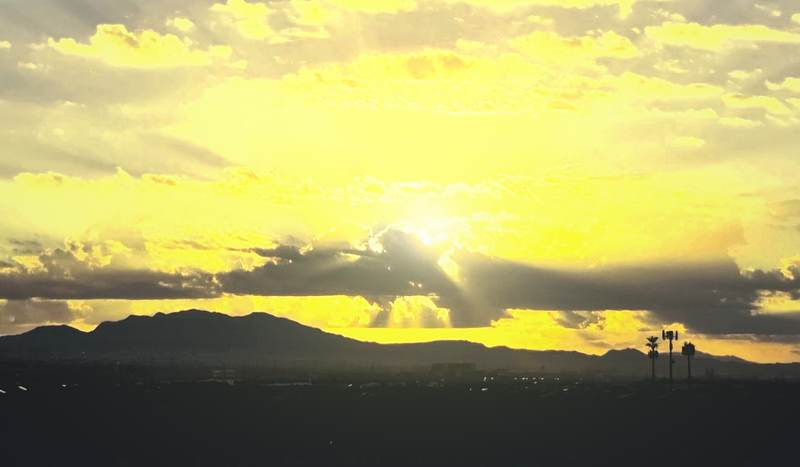
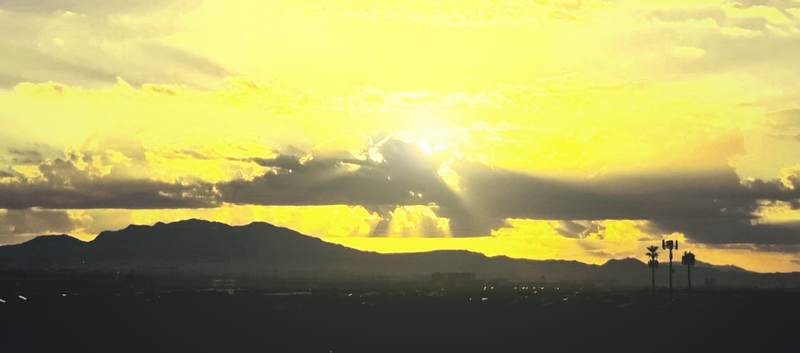
Slimmer hero (-25%) and half-height trip cards in a scrolling stack
- Hero 190->143px desktop, 210->158px phones; image re-cropped to a slim
  sunburst band (17 KB / 11 KB WebP).
- Trip cards 210->105px, single-line dates with ellipsis, vertically
  scrollable stack (about four visible on desktop, three on phones);
  home now lists all trips.

Claude-Session: https://claude.ai/code/session_01KePJk6oqAQx5cTQ9pZDSs3

diff --git a/src/theme.css b/src/theme.css
@@ -732,7 +732,7 @@ details > summary,
   position: relative;
   overflow: hidden;
   border-radius: var(--radius-md);
-  min-height: 190px; /* half-height band */
+  min-height: 143px; /* slim band */
   display: flex;
   align-items: flex-end;
   isolation: isolate;
@@ -747,7 +747,7 @@ details > summary,
 }
 .hero-copy {
   width: 100%;
-  padding: 28px clamp(24px, 4vw, 40px);
+  padding: 20px clamp(24px, 4vw, 40px);
   display: flex;
   align-items: flex-end;
   justify-content: space-between;
@@ -815,9 +815,20 @@ details > summary,
 
 /* ---------- Photo-style trip cards ---------- */
 .trip-rail {
-  display: grid;
-  grid-template-columns: repeat(auto-fill, minmax(320px, 1fr));
-  gap: 20px;
+  display: flex;
+  flex-direction: column;
+  gap: 10px;
+  max-height: 460px; /* about four cards, then scroll */
+  overflow-y: auto;
+  overscroll-behavior: contain;
+  scroll-snap-type: y proximity;
+  padding: 2px 8px 8px 2px;
+  scrollbar-width: thin;
+  scrollbar-color: var(--accent) transparent;
+}
+.trip-rail > * {
+  flex: none;
+  scroll-snap-align: start;
 }
 .trip-card {
   background: var(--surface-200);
@@ -832,9 +843,9 @@ details > summary,
   position: relative;
   overflow: hidden;
   isolation: isolate;
-  min-height: 210px;
+  min-height: 105px; /* half height */
   padding: 0;
-  justify-content: flex-end;
+  justify-content: center;
   gap: 0;
   color: var(--ink-light);
 }
@@ -846,13 +857,13 @@ details > summary,
     linear-gradient(0deg, rgb(22 26 38 / 70%), transparent 55%);
 }
 .scene-card-body {
-  padding: 22px 24px;
+  padding: 14px 64px 14px 20px;
   display: flex;
   flex-direction: column;
-  gap: 6px;
+  gap: 2px;
 }
 .scene-card h3 {
-  font: 600 30px/1.1 var(--serif);
+  font: 600 22px/1.2 var(--serif);
   color: var(--ink-light);
   text-shadow: 0 -1px 1px rgba(13, 16, 21, 0.65), 0 1px 1px rgba(255, 255, 255, 0.25);
   margin: 0;
@@ -867,6 +878,18 @@ details > summary,
   gap: 8px;
   margin: 0;
   color: var(--ink-light);
+  white-space: nowrap;
+  min-width: 0;
+}
+.scene-when svg {
+  flex: none;
+}
+.scene-when-text {
+  overflow: hidden;
+  text-overflow: ellipsis;
+}
+.scene-card-body {
+  min-width: 0;
 }
 .scene-card .trip-card-remaining,
 .scene-card .money {
@@ -874,10 +897,11 @@ details > summary,
 }
 .more-btn {
   position: absolute;
-  top: 14px;
+  top: 50%;
   right: 14px;
-  width: 40px;
-  height: 40px;
+  transform: translateY(-50%);
+  width: 34px;
+  height: 34px;
   border-radius: var(--radius-pill);
   display: grid;
   place-items: center;
@@ -910,32 +934,24 @@ details > summary,
     font-size: 36px;
   }
   .hero-card {
-    min-height: 210px; /* half-height band */
+    min-height: 158px; /* slim band */
   }
   .hero-copy {
     flex-direction: column;
     align-items: flex-start;
-    gap: 12px;
-    padding: 20px;
+    gap: 10px;
+    padding: 16px 18px;
   }
   .hero-title {
-    font-size: 32px;
-    line-height: 36px;
+    font-size: 26px;
+    line-height: 30px;
   }
   .hero-card .btn-lg {
-    padding: 11px 18px;
-    font-size: 15px;
+    padding: 9px 16px;
+    font-size: 14px;
   }
   .trip-rail {
-    grid-auto-flow: column;
-    grid-template-columns: none;
-    grid-auto-columns: 88%;
-    overflow-x: auto;
-    scroll-snap-type: x mandatory;
-    padding-bottom: 8px;
-  }
-  .trip-rail > * {
-    scroll-snap-align: start;
+    max-height: 360px;
   }
   .page {
     padding-bottom: 110px;

diff --git a/src/ui/TripList.tsx b/src/ui/TripList.tsx
@@ -39,8 +39,11 @@ function TripCard({ t, detailed }: { t: Trip; detailed?: boolean }) {
         {t.region && <span className="trip-card-region">{t.region}</span>}
         <h3>{t.name}</h3>
         <p className="scene-when">
-          <CalendarIcon /> {whenText(t)}
-          {n !== null && <span> · {n} nights</span>}
+          <CalendarIcon />
+          <span className="scene-when-text">
+            {whenText(t)}
+            {n !== null && ` · ${n} nights`}
+          </span>
         </p>
         {detailed && (
           <>
@@ -120,7 +123,7 @@ export function TripList() {
         </div>
       ) : (
         <div className="trip-rail">
-          {trips.slice(0, 6).map((t) => (
+          {trips.map((t) => (
             <TripCard key={t.id} t={t} />
           ))}
         </div>

diff --git a/scripts/grade-hero.py b/scripts/grade-hero.py
@@ -57,7 +57,7 @@ def save(img, name, w, q):
     r.save(f"{outdir}/{name}.webp", 'WEBP', quality=q, method=6)
     r.save(f"{outdir}/{name}.jpg", 'JPEG', quality=q - 4, optimize=True, progressive=True)
 
-# Short, wide band through the sunburst and mountains (hero is half-height).
-save(out.crop((0, int(H * 0.53), W, int(H * 0.83))), 'hero-wide', 1600, 74)  # 2000x450 -> 1600x360
+# Slim band through the sunburst and mountains (hero is a thin strip).
+save(out.crop((0, int(H * 0.60), W, int(H * 0.80))), 'hero-wide', 1600, 74)  # 2000x300 -> 1600x240
 cx = int(sx)
-save(out.crop((cx - 640, int(H * 0.45), cx + 560, int(H * 0.45) + 700)), 'hero-tall', 800, 72)  # 1200x700 -> 800x467
+save(out.crop((cx - 640, int(H * 0.54), cx + 560, int(H * 0.54) + 530)), 'hero-tall', 800, 72)  # 1200x530 -> 800x353
